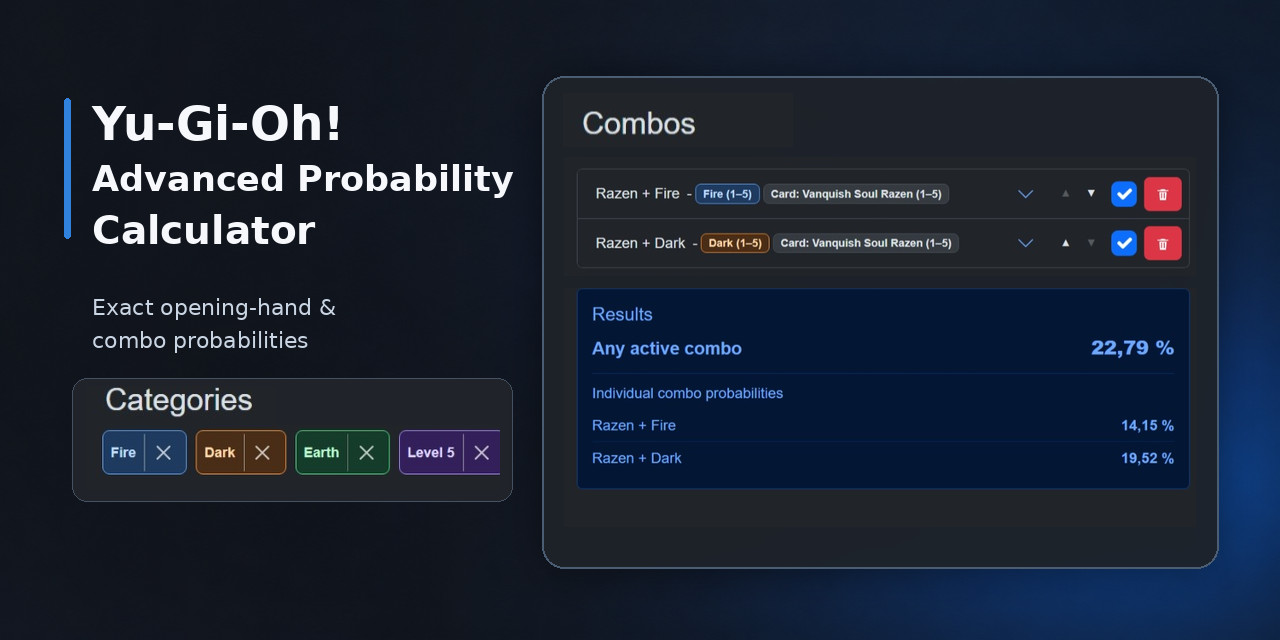
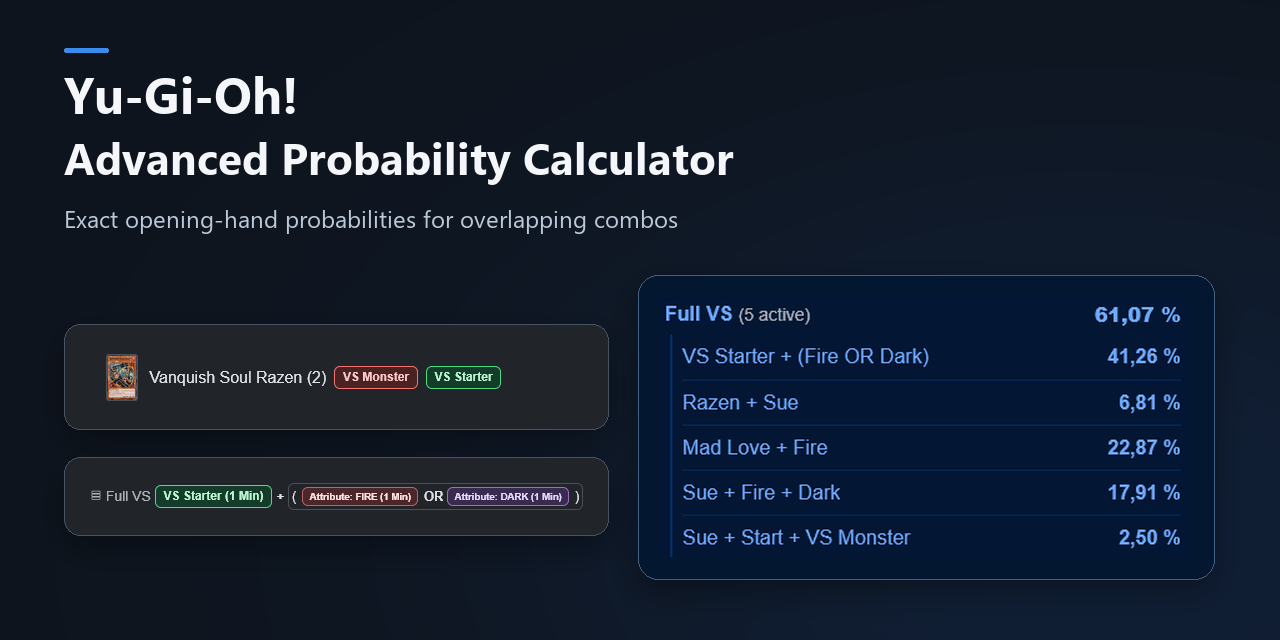
Refresh social preview with current calculator UI

Changed region(s): [[0.0312, 0.125, 1.0, 1.0], [0.0625, 0.0625, 0.0938, 0.0938]]

diff --git a/YGOProbabilityCalculatorBlazorTest/PublishedOutputSeoTest.cs b/YGOProbabilityCalculatorBlazorTest/PublishedOutputSeoTest.cs
@@ -34,14 +34,14 @@ public class PublishedOutputSeoTest {
             ["og:description"] = description,
             ["og:url"] = canonical,
             ["og:image"] = "https://ygo-calculator.pages.dev/social-preview.png",
-            ["og:image:alt"] = "Dark calculator interface with Fire, Dark and Earth categories, two Razen combo examples, and exact opening-hand probability results.",
+            ["og:image:alt"] = "Dark calculator interface showing Vanquish Soul Razen with VS Monster and VS Starter roles, a VS Starter plus FIRE-or-DARK combo expression, and exact Full VS probability results.",
             ["og:image:width"] = "1280",
             ["og:image:height"] = "640",
             ["twitter:card"] = "summary_large_image",
             ["twitter:title"] = title,
             ["twitter:description"] = description,
             ["twitter:image"] = "https://ygo-calculator.pages.dev/social-preview.png",
-            ["twitter:image:alt"] = "Dark calculator interface with Fire, Dark and Earth categories, two Razen combo examples, and exact opening-hand probability results."
+            ["twitter:image:alt"] = "Dark calculator interface showing Vanquish Soul Razen with VS Monster and VS Starter roles, a VS Starter plus FIRE-or-DARK combo expression, and exact Full VS probability results."
         };
         foreach (var (name, value) in metadata) {
             var attribute = name.StartsWith("og:", StringComparison.Ordinal) ? "property" : "name";
